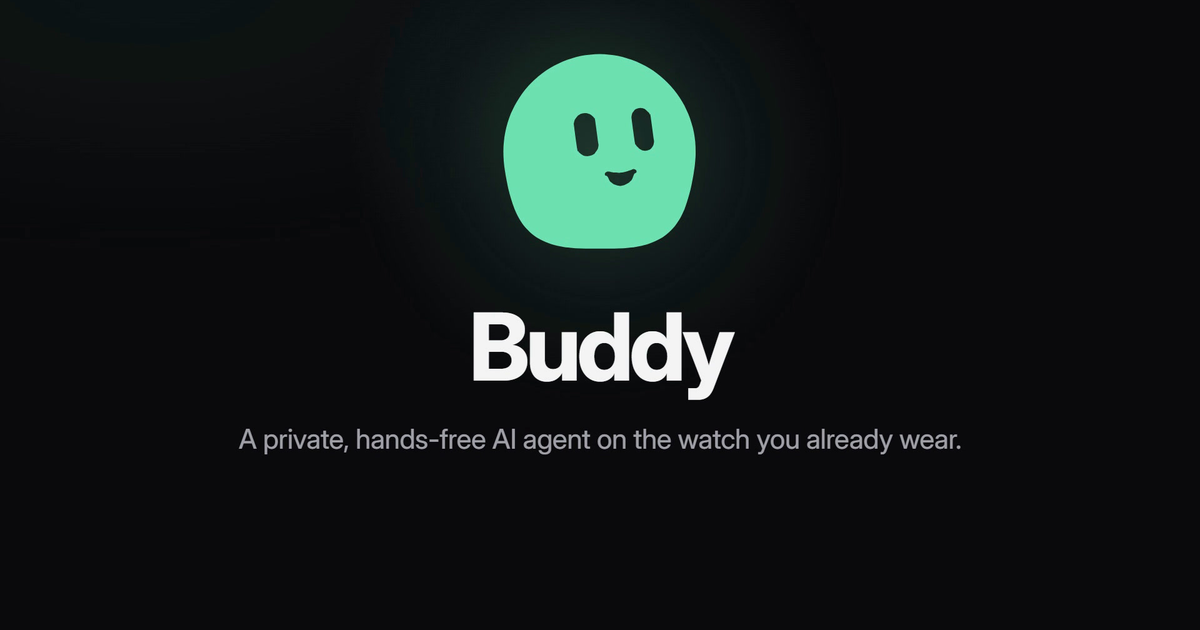
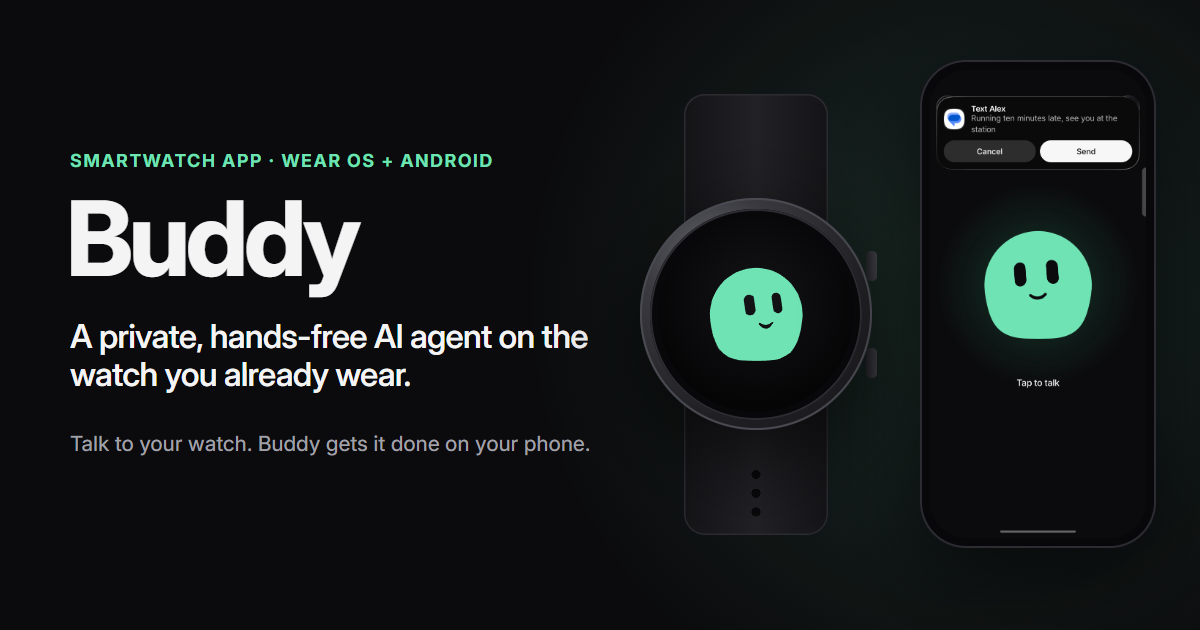
Hero shows a real smartwatch next to the phone; link preview with the watch

diff --git a/app/page.tsx b/app/page.tsx
@@ -3,6 +3,7 @@ import Link from "next/link";
 import frames from "../public/buddy-frames.json";
 import { BuddyFace } from "./_components/buddy-face";
 import { Icon, type IconName } from "./_components/icon";
+import { Watch } from "./_components/watch";
 import { WaitlistForm } from "./_components/waitlist-form";
 
 const GITHUB = "https://github.com/thenguyentrong/watch-ai";
@@ -101,11 +102,11 @@ export default function Home() {
       </header>
 
       <main>
-        <section className="mx-auto grid w-full max-w-[1152px] gap-16 px-4 pt-12 pb-24 sm:px-6 md:grid-cols-[1.15fr_0.85fr] md:items-center md:pt-20 md:pb-32">
+        <section className="mx-auto grid w-full max-w-[1152px] gap-16 px-4 pt-12 pb-24 sm:px-6 md:grid-cols-2 md:items-center md:pt-20 md:pb-32">
           <div>
-            <Eyebrow>For Wear OS watches and Android phones</Eyebrow>
+            <Eyebrow>Smartwatch app · Wear OS + Android</Eyebrow>
             <h1 className="mt-5 text-[40px] leading-[1.05] font-semibold tracking-[-0.035em] text-balance md:text-[56px]">
-              A private, hands-free AI agent on the watch you already wear.
+              A private, hands‑free AI agent on the watch you already wear.
             </h1>
             <p className="mt-6 max-w-[34rem] text-lg leading-relaxed text-muted">
               Say “Hey Buddy” and it texts, calls, reads and answers your messages, sets timers and finds your phone. It
@@ -116,12 +117,23 @@ export default function Home() {
             </div>
           </div>
 
-          <div className="relative mx-auto aspect-square w-full max-w-[400px]">
-            <div className="absolute inset-0 rounded-full bg-[radial-gradient(circle,rgba(111,227,180,0.16)_0%,rgba(111,227,180,0.04)_45%,transparent_70%)]" />
-            <div className="absolute inset-[13%] flex items-center justify-center rounded-full bg-[radial-gradient(circle_at_50%_42%,#131316_0%,#050506_72%)] shadow-[0_0_0_12px_#1b1b1f,0_0_0_14px_#2c2c32,0_40px_120px_rgba(0,0,0,0.6)]">
-              <BuddyFace first={frames.rest[0].b} className="w-[64%]" />
+          <figure className="relative flex w-full items-center justify-center gap-6">
+            <div className="absolute top-1/2 left-1/2 aspect-square w-full max-w-[640px] -translate-x-1/2 md:w-[120%] -translate-y-1/2 rounded-full bg-[radial-gradient(circle,rgba(111,227,180,0.15)_0%,rgba(111,227,180,0.04)_45%,transparent_70%)]" />
+            <Watch className="relative z-10 shrink-0">
+              <BuddyFace first={frames.rest[0].b} className="w-[62%]" />
+            </Watch>
+            <div className="relative hidden w-[190px] shrink-0 overflow-hidden rounded-[32px] border-[6px] border-[#08080a] shadow-[0_0_0_1.5px_#2c2c32] lg:block">
+              <Image
+                src="/img/3-text-waits-for-yes.webp"
+                alt="On the phone: a text to Alex waits for Send or Cancel"
+                width={720}
+                height={1561}
+                sizes="190px"
+                className="block h-auto w-full"
+              />
             </div>
-          </div>
+            <figcaption className="sr-only">Buddy on the watch, and the text it prepared on the phone</figcaption>
+          </figure>
         </section>
 
         <section className="border-t border-line">

diff --git a/app/globals.css b/app/globals.css
@@ -20,6 +20,8 @@ html {
 body {
   background: var(--color-bg);
   color: var(--color-ink);
+  /* The soft glows may reach past the edges; they must never make the page scroll sideways. */
+  overflow-x: clip;
 }
 
 ::selection {
@@ -35,4 +37,74 @@ body {
   html {
     scroll-behavior: auto;
   }
+}
+
+/* The smartwatch around Buddy. --s is the case diameter; everything else follows from it. */
+.watch {
+  --s: 250px;
+  position: relative;
+  width: var(--s);
+  height: calc(var(--s) * 1.9);
+}
+@media (min-width: 768px) {
+  .watch {
+    --s: 280px;
+  }
+}
+.watch-strap {
+  position: absolute;
+  left: 19%;
+  width: 62%;
+  height: calc(var(--s) * 0.62);
+  background: linear-gradient(90deg, #141417 0%, #222226 50%, #141417 100%);
+  box-shadow: inset 0 0 0 1.5px #2b2b30;
+}
+.watch-strap-top {
+  top: 0;
+  border-radius: calc(var(--s) * 0.09) calc(var(--s) * 0.09) 8px 8px;
+}
+.watch-strap-bottom {
+  bottom: 0;
+  border-radius: 8px 8px calc(var(--s) * 0.09) calc(var(--s) * 0.09);
+  /* Three strap holes, so the band reads as a watch strap at a glance. */
+  background:
+    radial-gradient(circle calc(var(--s) * 0.02) at 50% 58%, #09090b 96%, transparent 100%),
+    radial-gradient(circle calc(var(--s) * 0.02) at 50% 71%, #09090b 96%, transparent 100%),
+    radial-gradient(circle calc(var(--s) * 0.02) at 50% 84%, #09090b 96%, transparent 100%),
+    linear-gradient(90deg, #141417 0%, #222226 50%, #141417 100%);
+}
+.watch-button {
+  position: absolute;
+  right: calc(var(--s) * -0.022);
+  width: calc(var(--s) * 0.05);
+  height: calc(var(--s) * 0.13);
+  border-radius: calc(var(--s) * 0.02);
+  background: linear-gradient(90deg, #26262b, #45454c);
+}
+.watch-case {
+  position: absolute;
+  left: 0;
+  top: calc(var(--s) * 0.45);
+  width: var(--s);
+  height: var(--s);
+  border-radius: 50%;
+  background: radial-gradient(circle at 32% 28%, #6a6a72 0%, #3a3a40 30%, #1f1f23 68%, #151518 100%);
+  box-shadow: inset 0 0 0 2px #4a4a52, 0 30px 90px rgba(0, 0, 0, 0.65);
+}
+.watch-bezel {
+  position: absolute;
+  inset: 4.5%;
+  border-radius: 50%;
+  background: #08080a;
+  box-shadow: inset 0 0 0 2px #2c2c32;
+}
+.watch-screen {
+  position: absolute;
+  inset: 4%;
+  display: flex;
+  align-items: center;
+  justify-content: center;
+  overflow: hidden;
+  border-radius: 50%;
+  background: radial-gradient(circle at 50% 42%, #141417 0%, #050506 72%);
 }

diff --git a/app/_components/watch.tsx b/app/_components/watch.tsx
@@ -1,0 +1,16 @@
+/** A round smartwatch drawn around its screen: strap, case, bezel and two side buttons. */
+export function Watch({ children, className = "" }: { children: React.ReactNode; className?: string }) {
+  return (
+    <div className={`watch ${className}`}>
+      <div className="watch-strap watch-strap-top" />
+      <div className="watch-strap watch-strap-bottom" />
+      <div className="watch-button" style={{ top: "calc(var(--s) * 0.675)" }} />
+      <div className="watch-button" style={{ top: "calc(var(--s) * 1.095)" }} />
+      <div className="watch-case">
+        <div className="watch-bezel">
+          <div className="watch-screen">{children}</div>
+        </div>
+      </div>
+    </div>
+  );
+}
